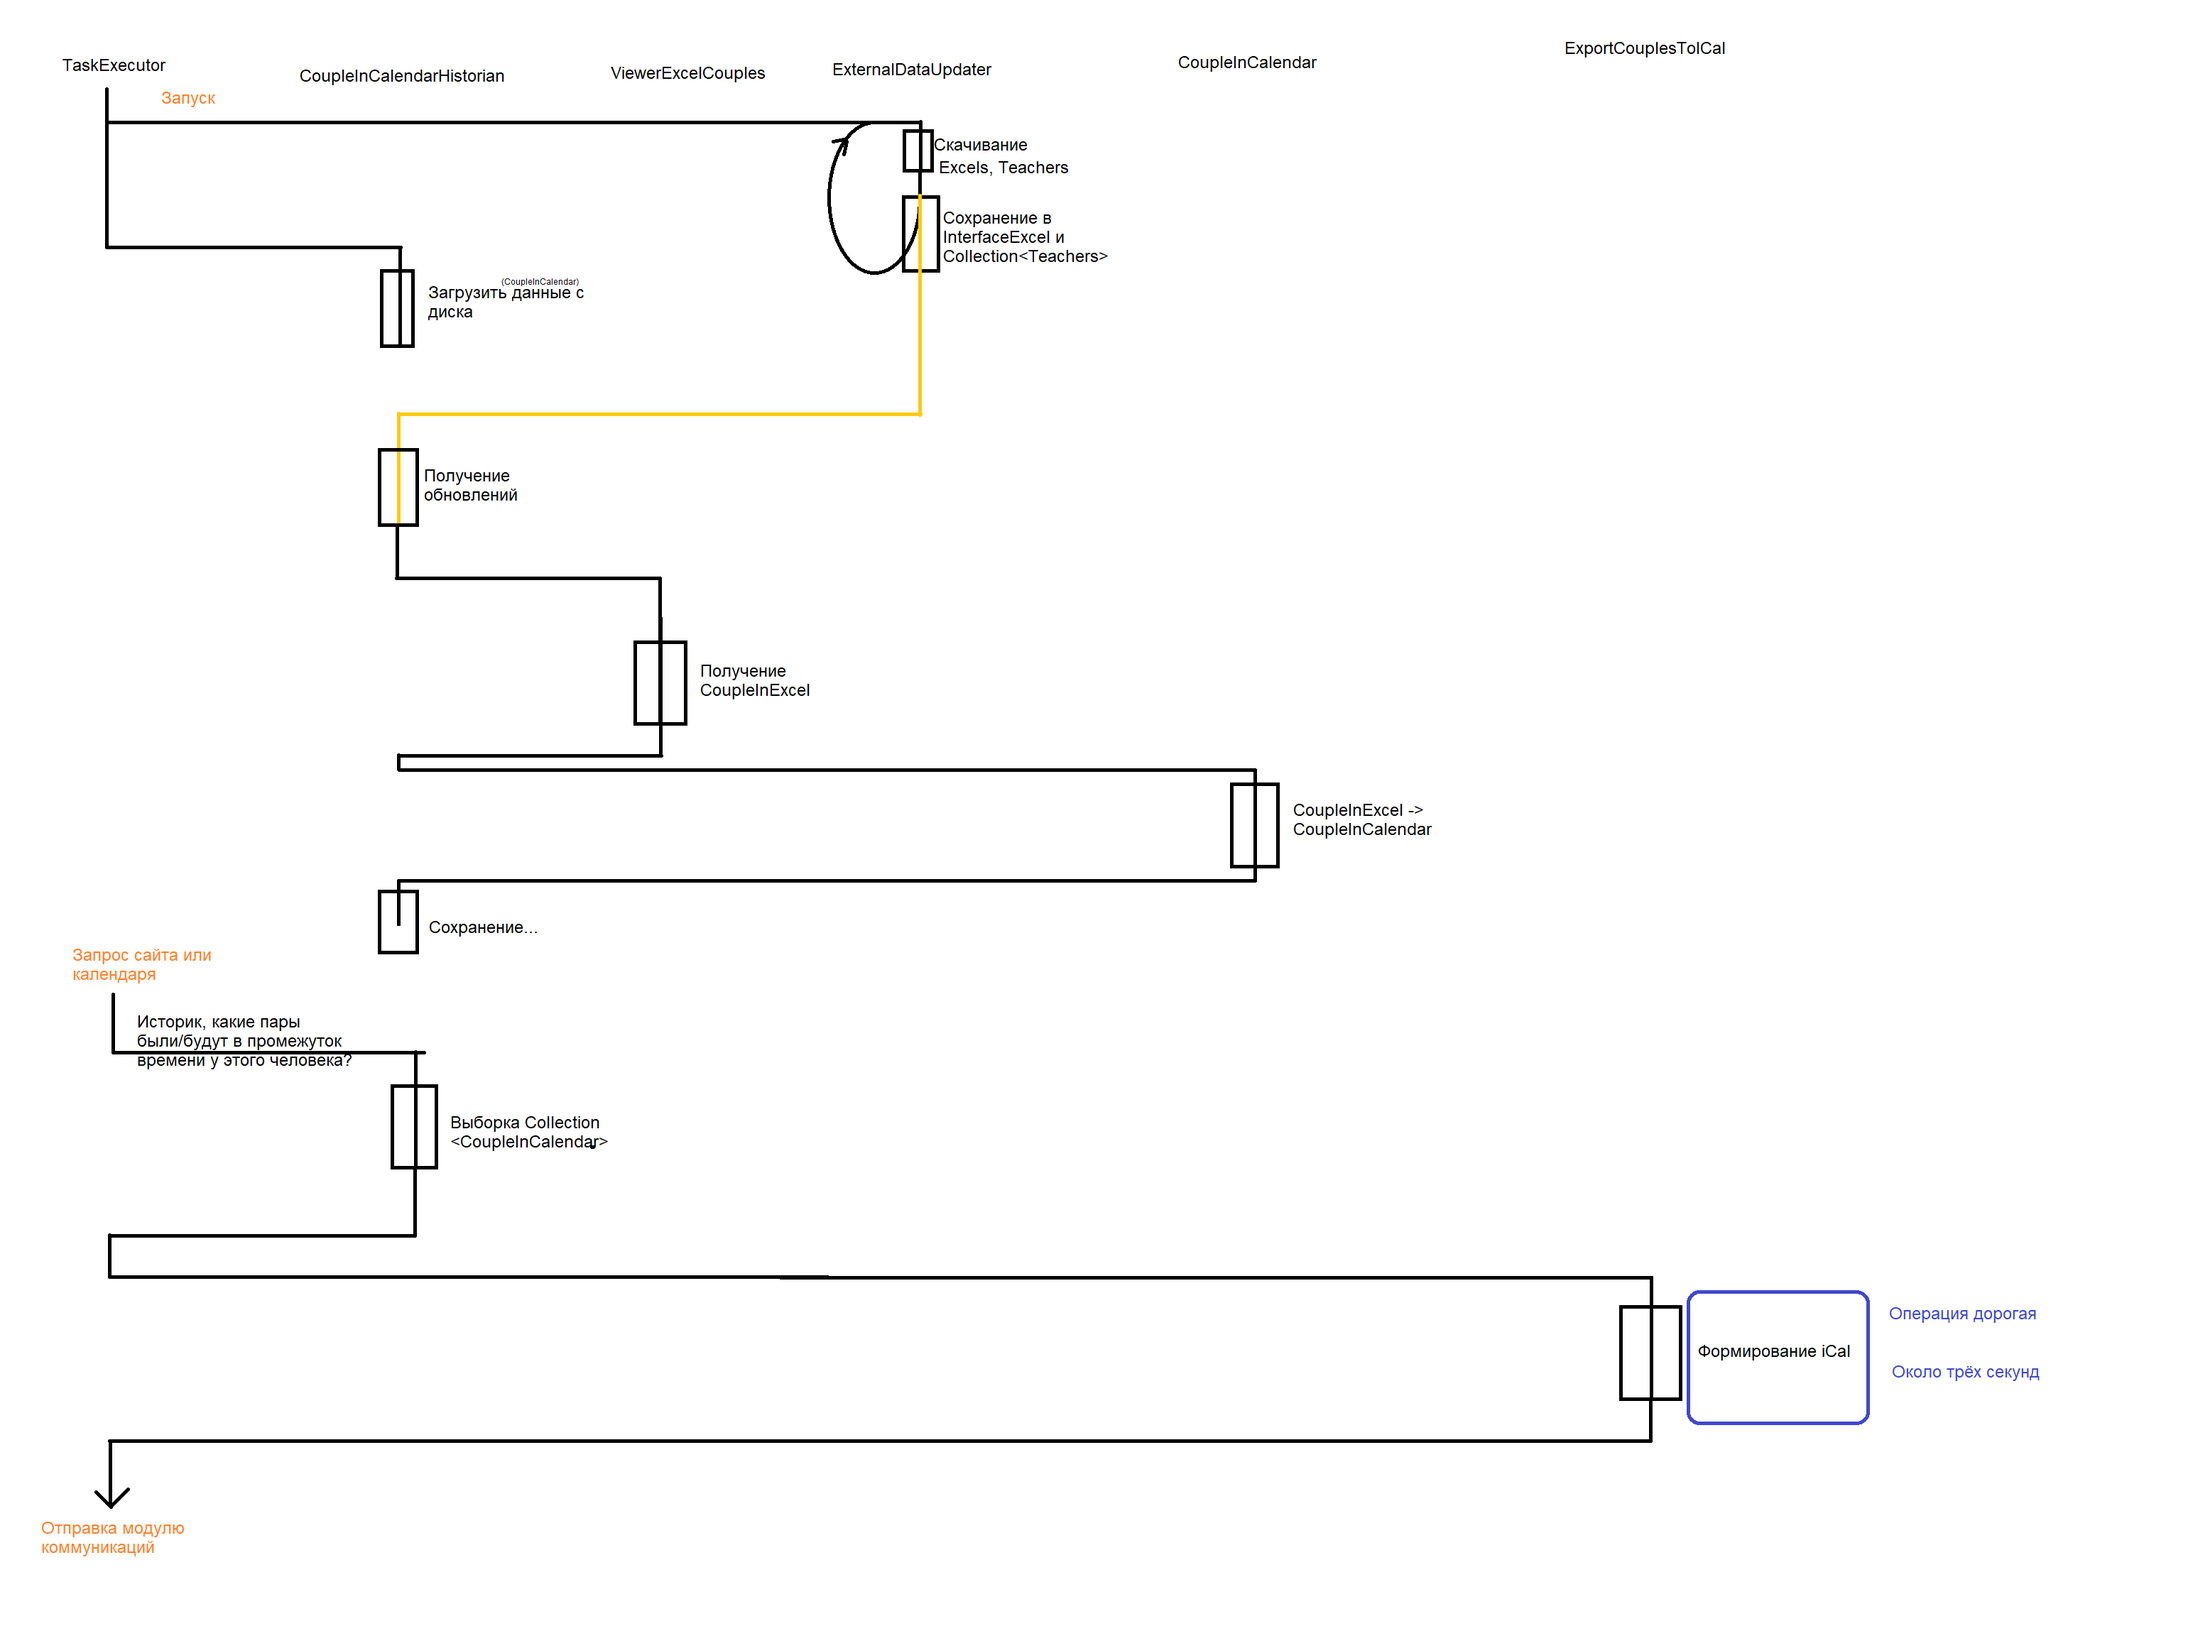
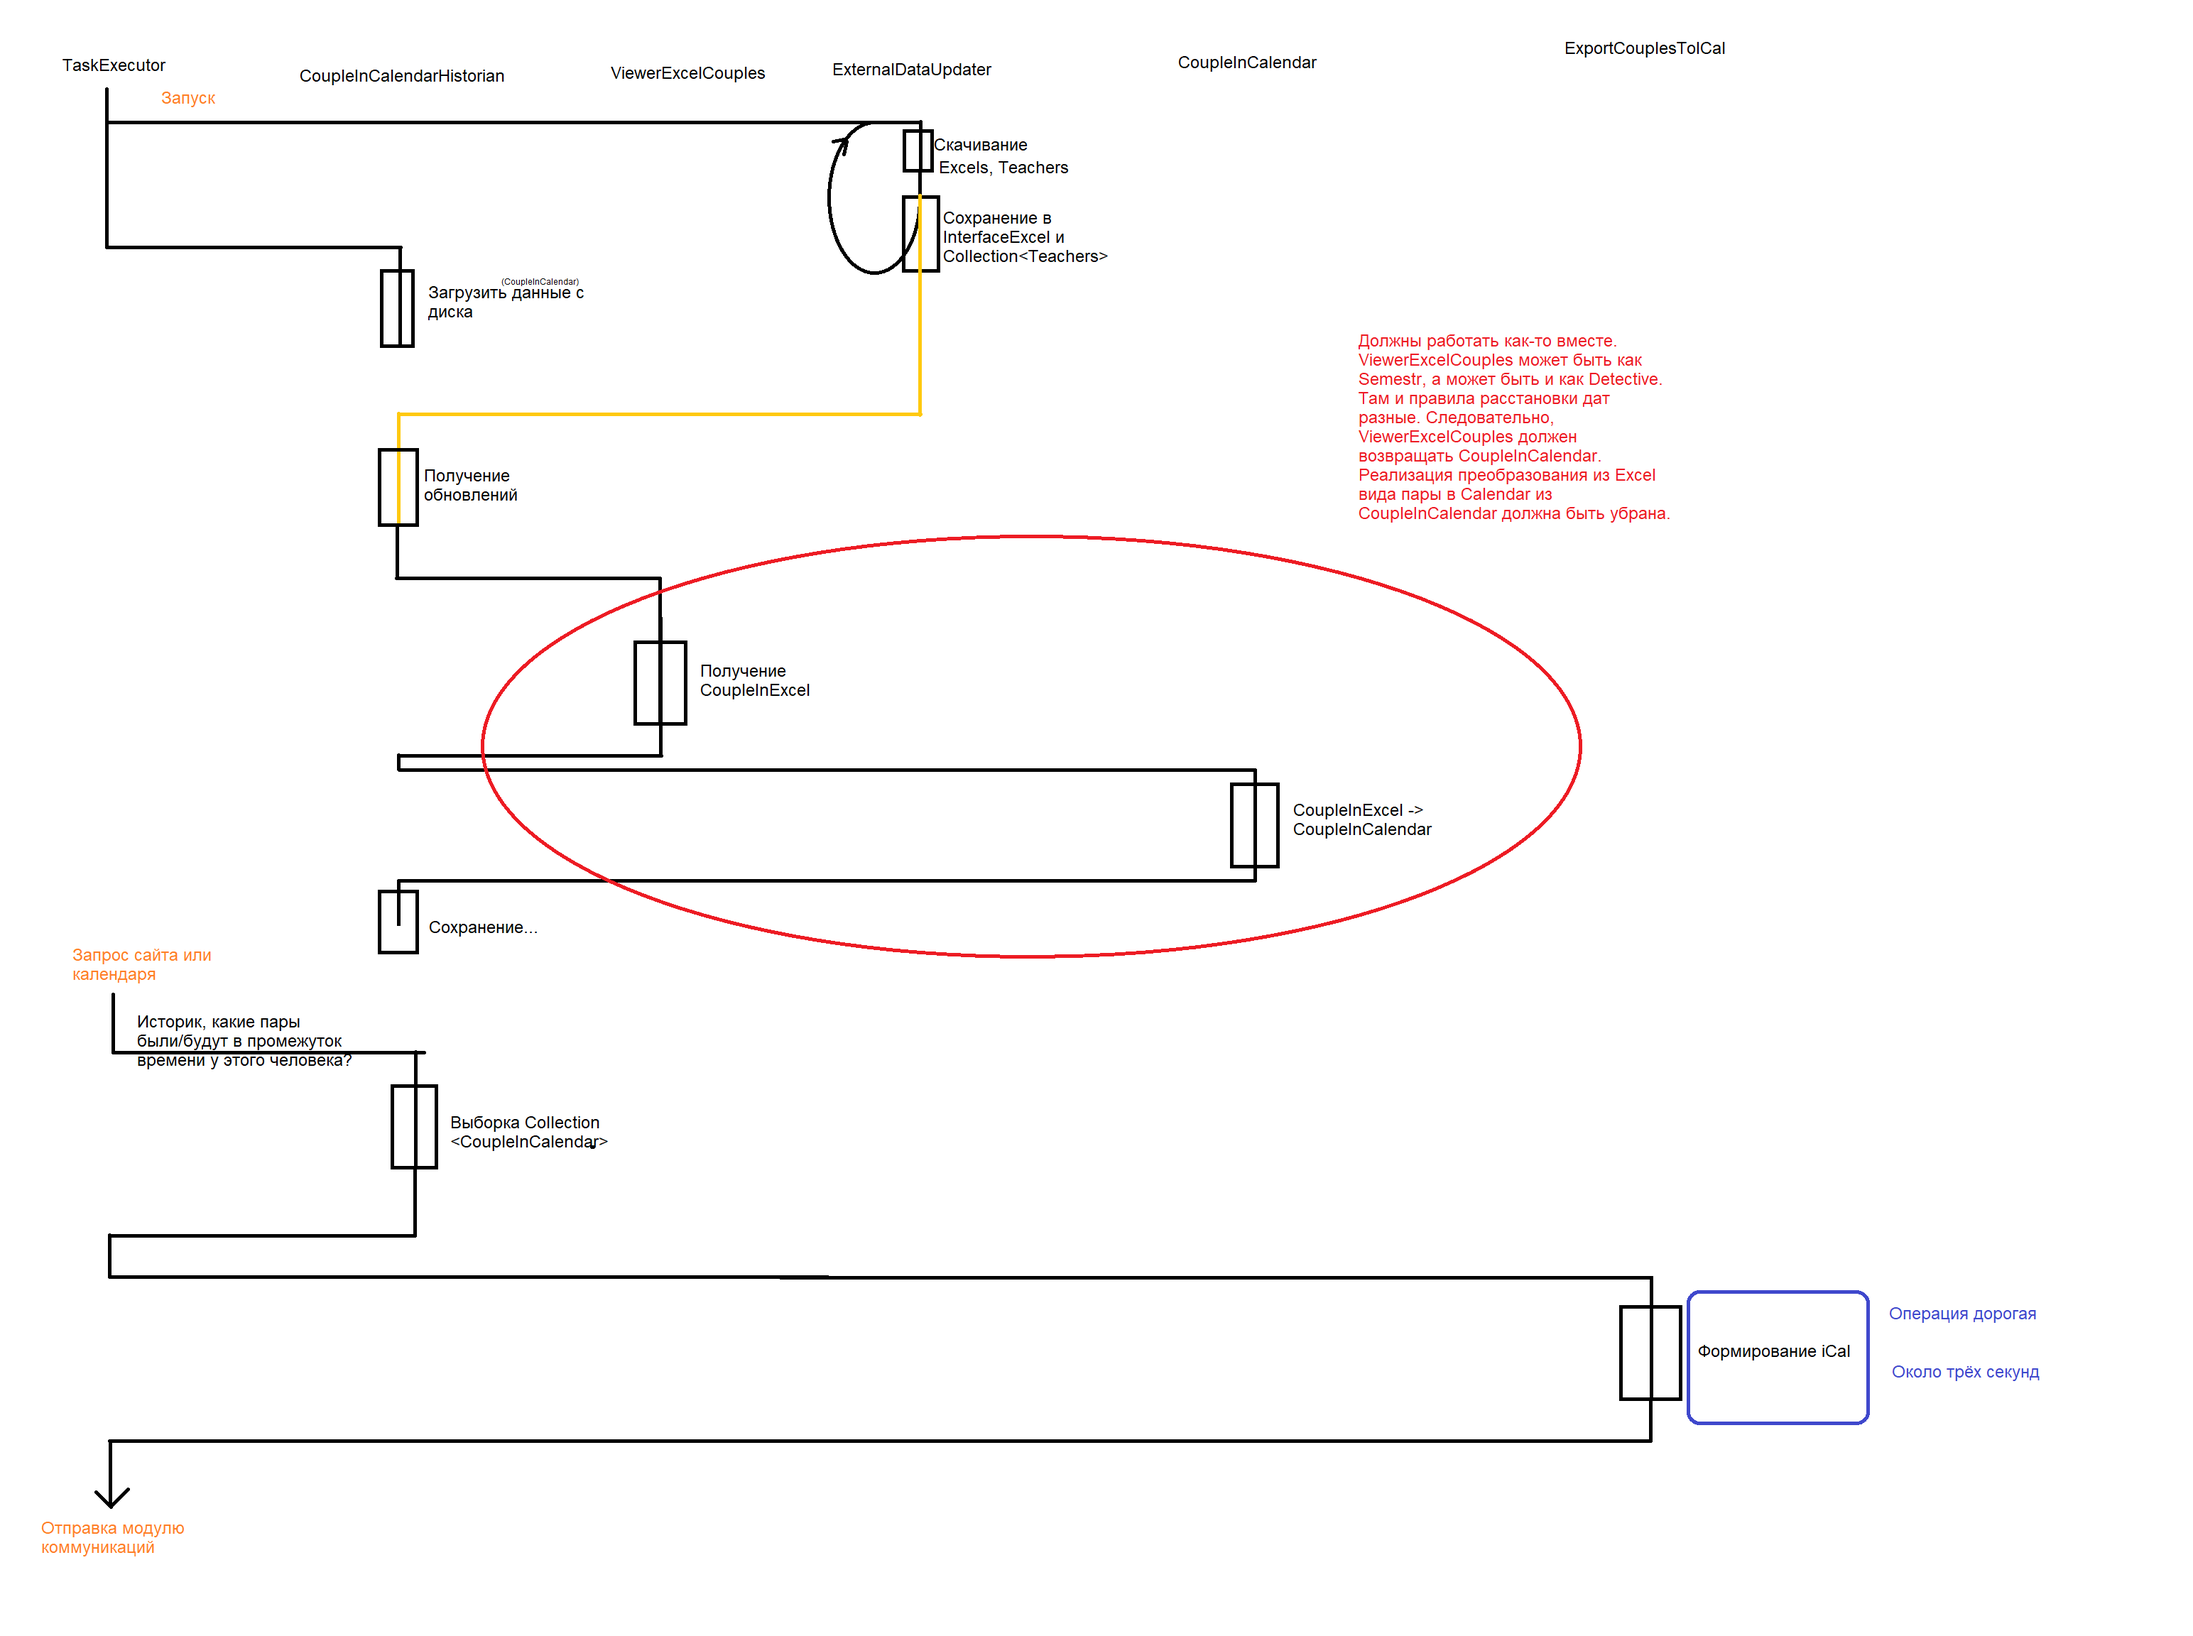
Создание общего Couple

Changed region(s): [[0.6218, 0.1875, 0.7461, 0.3125]]

diff --git a/xls_ical/server/src/main/java/ru/mirea/xlsical/CouplesDetective/CoupleInCalendar.java b/xls_ical/server/src/main/java/ru/mirea/xlsical/CouplesDetective/CoupleInCalendar.java
@@ -17,52 +17,24 @@ import java.util.regex.Pattern;
  * Сокращённо: "Календарная пара".
  * Время начала и конца пары, название группы и имя преподавателя,
  * название предмета, аудитория, адрес, тип пары.
+ * Также данный класс занимается преобразованием из {@link CoupleInExcel} в {@link CoupleInCalendar}.
  */
-public class CoupleInCalendar {
+public class CoupleInCalendar extends Couple {
 
-    private CoupleInCalendar(ZonedDateTime dateAndTimeOfCouple, ZonedDateTime dateAndTimeFinishOfCouple, String nameOfGroup, String nameOfTeacher, String itemTitle, String audience, String address, String typeOfLesson) {
+    private CoupleInCalendar(String itemTitle, String typeOfLesson, String nameOfGroup, String nameOfTeacher, String audience, String address, ZonedDateTime dateAndTimeOfCouple, ZonedDateTime dateAndTimeFinishOfCouple) {
+        super(itemTitle, typeOfLesson, nameOfGroup, nameOfTeacher, audience, address);
         DateAndTimeOfCouple = dateAndTimeOfCouple;
         DateAndTimeFinishOfCouple = dateAndTimeFinishOfCouple;
-        NameOfGroup = nameOfGroup;
-        NameOfTeacher = nameOfTeacher;
-        ItemTitle = itemTitle;
-        Audience = audience;
-        Address = address;
-        TypeOfLesson = typeOfLesson;
     }
 
     /**
      * Дата и время пары.
      */
-    public ZonedDateTime DateAndTimeOfCouple;
+    public final ZonedDateTime DateAndTimeOfCouple;
     /**
      * Количество времени, сколько длится пара.
      */
-    public ZonedDateTime DateAndTimeFinishOfCouple;
-    /**
-     * Название группы.
-     */
-    public String NameOfGroup; 
-    /**
-     * Имя преподавателя.
-     */
-    public String NameOfTeacher;
-    /**
-     * Название пары.
-     */
-    public String ItemTitle;
-    /**
-     * Номер аудитории.
-     */
-    public String Audience;
-    /**
-     * Адрес корпуса.
-     */
-    public String Address;
-    /**
-     * Тип занятия (лекция, практика, лабораторная работа)
-     */
-    public String TypeOfLesson;
+    public final ZonedDateTime DateAndTimeFinishOfCouple;
 
     /**
      * Получает на входе данные про одну строку. Принимает решение, в какие дни будут пары. Не делает выборку данных.

diff --git a/xls_ical/server/src/main/java/ru/mirea/xlsical/CouplesDetective/Couple.java b/xls_ical/server/src/main/java/ru/mirea/xlsical/CouplesDetective/Couple.java
@@ -1,0 +1,56 @@
+package ru.mirea.xlsical.CouplesDetective;
+
+/**
+ * Класс, который описывает в общем, что общего между.
+ * календарной и эксель парой.
+ * @since 16.11.2018
+ * @version 16.11.2018
+ * @author <a href="https://github.com/SGmuwa/">[SG]Muwa</a>
+ * @see CoupleInCalendar Пара для календаря
+ * @see CoupleInExcel Пара для Excel
+ */
+public class Couple {
+
+    /**
+     * Название пары.
+     */
+    public final String ItemTitle;
+    /**
+     * Тип занятия (лекция, практика, лабораторная работа)
+     */
+    public final String TypeOfLesson;
+    /**
+     * Название группы.
+     */
+    public final String NameOfGroup;
+    /**
+     * Имя преподавателя.
+     */
+    public final String NameOfTeacher;
+    /**
+     * Номер аудитории.
+     */
+    public final String Audience;
+    /**
+     * Адрес корпуса.
+     */
+    public final String Address;
+
+    /**
+     * Создание в памяти экземпляров параметров вне-временых параметров пары.
+     * @param itemTitle Название пары.
+     * @param typeOfLesson Тип занятия (лекция, практика, лабораторная работа)
+     * @param nameOfGroup Название группы.
+     * @param nameOfTeacher Имя преподавателя.
+     * @param audience Номер аудитории.
+     * @param address Адрес корпуса.
+     */
+    protected Couple(String itemTitle, String typeOfLesson, String nameOfGroup, String nameOfTeacher, String audience, String address) {
+        ItemTitle = itemTitle;
+        TypeOfLesson = typeOfLesson;
+        NameOfGroup = nameOfGroup;
+        NameOfTeacher = nameOfTeacher;
+        Audience = audience;
+        Address = address;
+    }
+}

diff --git a/xls_ical/server/src/main/java/ru/mirea/xlsical/CouplesDetective/ViewerExcelCouples/ViewerExcelCouples.java b/xls_ical/server/src/main/java/ru/mirea/xlsical/CouplesDetective/ViewerExcelCouples/ViewerExcelCouples.java
@@ -1,6 +1,7 @@
 package ru.mirea.xlsical.CouplesDetective.ViewerExcelCouples;
 
 import ru.mirea.xlsical.CouplesDetective.CoupleInCalendar;
+import ru.mirea.xlsical.CouplesDetective.CoupleInExcel;
 import ru.mirea.xlsical.CouplesDetective.xl.ExcelFileInterface;
 import ru.mirea.xlsical.interpreter.Seeker;
 
@@ -35,6 +36,7 @@ public abstract class ViewerExcelCouples implements Closeable {
      * @param seeker критерий поиска.
      * @throws ViewerExcelCouplesException Появилась проблема, связанная с обработкой Excel файла
      * @throws IOException Во время работы с Excel file - файл стал недоступен.
+     * @deprecated Лучше делать через экземпляр.
      */
     public static List<CoupleInCalendar> startAnInvestigations(Seeker seeker, Iterable<ViewerExcelCouples> detectives) throws ViewerExcelCouplesException, IOException {
         List<CoupleInCalendar> output = new LinkedList<>();
@@ -49,7 +51,7 @@ public abstract class ViewerExcelCouples implements Closeable {
      * @throws ViewerExcelCouplesException Появилась проблема, связанная с обработкой Excel файла.
      * @throws IOException Во время работы с Excel file - файл стал недоступен.
      */
-    public abstract List<CoupleInCalendar> startAnInvestigation(Seeker seeker) throws ViewerExcelCouplesException, IOException;
+    public abstract List<CoupleInExcel> startAnInvestigation(Seeker seeker) throws ViewerExcelCouplesException, IOException;
 
     /**
      * Функция решает, какой именно требуется способ просмотра Excel таблицы.

diff --git a/xls_ical/server/src/main/java/ru/mirea/xlsical/CouplesDetective/CoupleInExcel.java b/xls_ical/server/src/main/java/ru/mirea/xlsical/CouplesDetective/CoupleInExcel.java
@@ -1,4 +1,22 @@
 package ru.mirea.xlsical.CouplesDetective;
 
-public class CoupleInExcel {
+import java.time.LocalTime;
+
+public class CoupleInExcel extends Couple {
+
+    /**
+     * Время начала пары.
+     */
+    public final LocalTime Start;
+
+    /**
+     * Время конца пары.
+     */
+    public final LocalTime Finish;
+
+    public CoupleInExcel(String itemTitle, String typeOfLesson, String nameOfGroup, String nameOfTeacher, String audience, String address, LocalTime start, LocalTime finish) {
+        super(itemTitle, typeOfLesson, nameOfGroup, nameOfTeacher, audience, address);
+        Start = start;
+        Finish = finish;
+    }
 }
